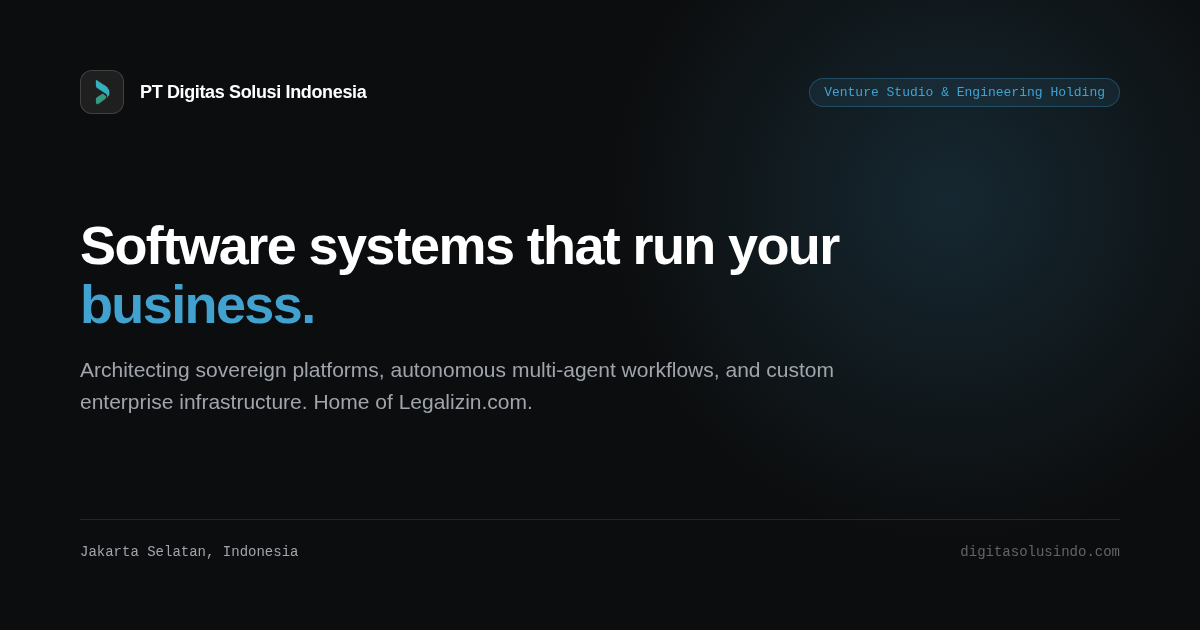
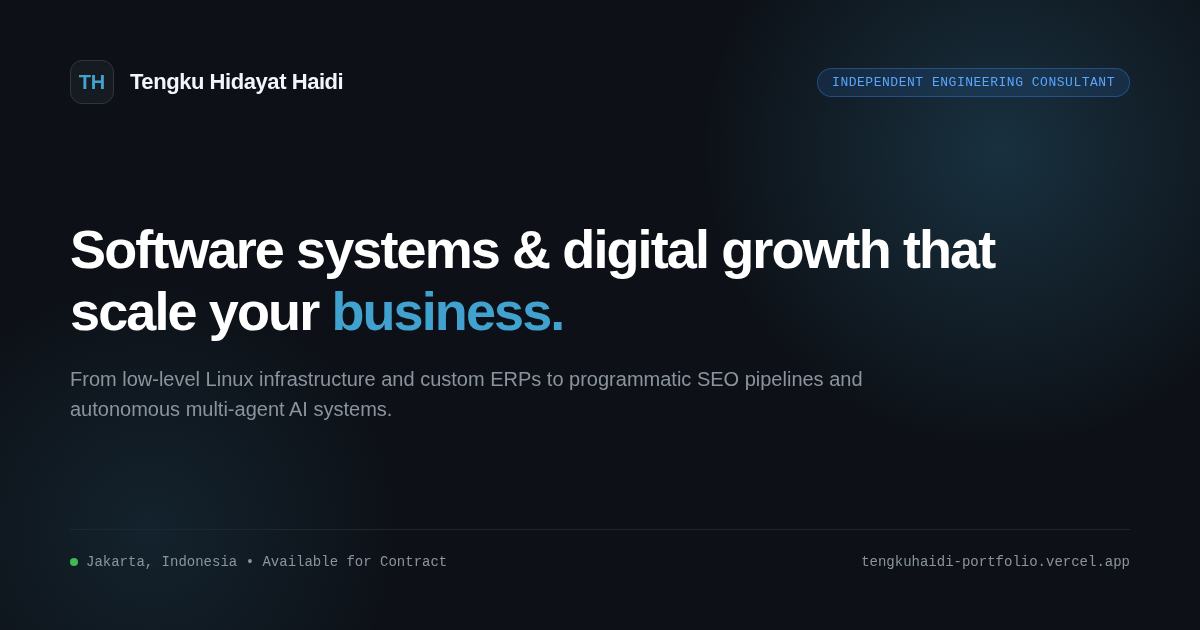
feat: update contact to WA 087825174624, email tengkuhaidi@gmail.com, Jakarta location; remove direct legalizin links from nav/footer; generate clean OG image

diff --git a/src/components/Navbar.tsx b/src/components/Navbar.tsx
@@ -5,7 +5,7 @@ import Link from 'next/link';
 import Image from 'next/image';
 import ThemeToggle from './ThemeToggle';
 
-const WA_URL = "https://wa.me/6281235247820?text=Halo%20Tengku%2C%20saya%20ingin%20berdiskusi%20mengenai%20kebutuhan%20teknologi%2C%20sistem%20software%2C%20dan%20growth%20digital%20untuk%20perusahaan.";
+const WA_URL = "https://wa.me/6287825174624?text=Halo%20Tengku%2C%20saya%20ingin%20berdiskusi%20mengenai%20kebutuhan%20teknologi%2C%20sistem%20software%2C%20dan%20growth%20digital%20untuk%20perusahaan.";
 
 export default function Navbar() {
   const [isOpen, setIsOpen] = useState(false);
@@ -56,18 +56,6 @@ export default function Navbar() {
                 {link.label}
               </Link>
             ))}
-            <a
-              href="https://legalizin.com"
-              target="_blank"
-              rel="noopener noreferrer"
-              className="flex items-center gap-1 text-[#41a1cf] hover:opacity-80 transition-opacity font-medium"
-            >
-              <span>Legalizin</span>
-              <svg width="10" height="10" viewBox="0 0 24 24" fill="none" stroke="currentColor" strokeWidth="2.2" strokeLinecap="round" strokeLinejoin="round">
-                <path d="M7 17L17 7" />
-                <path d="M7 7h10v10" />
-              </svg>
-            </a>
           </div>
 
           {/* Desktop Actions */}
@@ -185,7 +173,7 @@ export default function Navbar() {
 
         {/* Center: Stacked Large Serif Menu Links with Stagger Animation */}
         <div className="flex flex-col items-center justify-center space-y-4 my-auto">
-          {navLinks.map((item, idx) => (
+          {navLinks.slice(1).map((item, idx) => (
             <Link
               key={item.label}
               href={item.href}
@@ -202,26 +190,6 @@ export default function Navbar() {
               {item.label}
             </Link>
           ))}
-          <a
-            href="https://legalizin.com"
-            target="_blank"
-            rel="noopener noreferrer"
-            onClick={() => setIsOpen(false)}
-            style={{
-              transitionDelay: isOpen ? `${navLinks.length * 60 + 100}ms` : '0ms'
-            }}
-            className={`text-4xl sm:text-5xl font-editorial font-medium tracking-tight text-[#41a1cf] hover:opacity-80 transition-all duration-300 transform flex items-center gap-2 ${
-              isOpen
-                ? 'opacity-100 translate-y-0 blur-0'
-                : 'opacity-0 translate-y-6 blur-sm'
-            }`}
-          >
-            <span>Legalizin</span>
-            <svg width="24" height="24" viewBox="0 0 24 24" fill="none" stroke="currentColor" strokeWidth="2.2" strokeLinecap="round" strokeLinejoin="round">
-              <path d="M7 17L17 7" />
-              <path d="M7 7h10v10" />
-            </svg>
-          </a>
         </div>
 
         {/* Bottom Bar: Social Icons & Copyright */}
@@ -237,6 +205,18 @@ export default function Navbar() {
             >
               <svg xmlns="http://www.w3.org/2000/svg" width="18" height="18" viewBox="0 0 24 24" fill="none" stroke="currentColor" strokeWidth="2" strokeLinecap="round" strokeLinejoin="round">
                 <path d="M21 11.5a8.38 8.38 0 0 1-.9 3.8 8.5 8.5 0 0 1-7.6 4.7 8.38 8.38 0 0 1-3.8-.9L3 21l1.9-5.7a8.38 8.38 0 0 1-.9-3.8 8.5 8.5 0 0 1 4.7-7.6 8.38 8.38 0 0 1 3.8-.9h.5a8.48 8.48 0 0 1 8 8v.5z" />
+              </svg>
+            </a>
+
+            {/* Email Icon */}
+            <a
+              href="mailto:tengkuhaidi@gmail.com"
+              aria-label="Email Tengku Hidayat Haidi"
+              className="w-10 h-10 rounded-lg border border-[#dee2de] dark:border-[#24272b] flex items-center justify-center text-[#2c2c2c] dark:text-white hover:border-[#41a1cf] transition-colors"
+            >
+              <svg xmlns="http://www.w3.org/2000/svg" width="18" height="18" viewBox="0 0 24 24" fill="none" stroke="currentColor" strokeWidth="2" strokeLinecap="round" strokeLinejoin="round">
+                <rect width="20" height="16" x="2" y="4" rx="2" />
+                <path d="m22 7-8.97 5.7a1.94 1.94 0 0 1-2.06 0L2 7" />
               </svg>
             </a>
 

diff --git a/src/components/Footer.tsx b/src/components/Footer.tsx
@@ -4,7 +4,7 @@ import React from 'react';
 import Image from 'next/image';
 import Link from 'next/link';
 
-const WA_URL = "https://wa.me/6281235247820?text=Halo%20Tengku%2C%20saya%20ingin%20berdiskusi%20mengenai%20kebutuhan%20teknologi%2C%20sistem%20software%2C%20dan%20growth%20digital%20untuk%20perusahaan.";
+const WA_URL = "https://wa.me/6287825174624?text=Halo%20Tengku%2C%20saya%20ingin%20berdiskusi%20mengenai%20kebutuhan%20teknologi%2C%20sistem%20software%2C%20dan%20growth%20digital%20untuk%20perusahaan.";
 
 export default function Footer() {
   return (
@@ -60,6 +60,16 @@ export default function Footer() {
                 </svg>
               </a>
               <a
+                href="mailto:tengkuhaidi@gmail.com"
+                className="px-6 py-3 sm:py-2.5 rounded-[10px] border border-[#dee2de] dark:border-[#24272b] text-[#282834] dark:text-white text-[14px] font-sans font-medium hover:bg-neutral-50 dark:hover:bg-neutral-800 active:scale-95 transition-all text-center flex items-center justify-center gap-2"
+              >
+                <svg width="14" height="14" viewBox="0 0 24 24" fill="none" stroke="currentColor" strokeWidth="2" strokeLinecap="round" strokeLinejoin="round" className="opacity-70">
+                  <rect width="20" height="16" x="2" y="4" rx="2" />
+                  <path d="m22 7-8.97 5.7a1.94 1.94 0 0 1-2.06 0L2 7" />
+                </svg>
+                <span>tengkuhaidi@gmail.com</span>
+              </a>
+              <a
                 href="https://github.com/tengkuhaidi"
                 target="_blank"
                 rel="noopener noreferrer"
@@ -69,7 +79,7 @@ export default function Footer() {
                   <path d="M15 22v-4a4.8 4.8 0 0 0-1-3.5c3 0 6-2 6-5.5.08-1.25-.27-2.48-1-3.5.28-1.15.28-2.35 0-3.5 0 0-1 0-3 1.5-2.64-.5-5.36-.5-8 0C6 2 5 2 5 2c-.3 1.15-.3 2.35 0 3.5A5.403 5.403 0 0 0 4 9c0 3.5 3 5.5 6 5.5-.39.49-.68 1.05-.85 1.65-.17.6-.22 1.23-.15 1.85v4" />
                   <path d="M9 18c-4.51 2-5-2-7-2" />
                 </svg>
-                <span>GitHub @tengkuhaidi</span>
+                <span>GitHub</span>
               </a>
             </div>
 
@@ -94,18 +104,6 @@ export default function Footer() {
               <Link href="#about" className="hover:text-black dark:hover:text-white transition-colors">
                 About
               </Link>
-              <a
-                href="https://legalizin.com"
-                target="_blank"
-                rel="noopener noreferrer"
-                className="text-[#41a1cf] hover:underline inline-flex items-center gap-1 font-medium"
-              >
-                <span>Legalizin.com</span>
-                <svg width="11" height="11" viewBox="0 0 24 24" fill="none" stroke="currentColor" strokeWidth="2" strokeLinecap="round" strokeLinejoin="round">
-                  <path d="M7 17L17 7" />
-                  <path d="M7 7h10v10" />
-                </svg>
-              </a>
             </div>
 
             <div className="flex items-center gap-2 text-center">
@@ -140,7 +138,7 @@ export default function Footer() {
         {/* Bottom Floating Bar */}
         <div className="absolute bottom-0 left-0 right-0 z-20 max-w-[1240px] mx-auto px-4 sm:px-6 pb-4 sm:pb-6 flex flex-col sm:flex-row items-center justify-between text-white/90 text-[11px] sm:text-[13px] font-mono gap-1 text-center sm:text-left">
           <div>
-            © {new Date().getFullYear()} Tengku Hidayat Haidi
+            © {new Date().getFullYear()} Tengku Hidayat Haidi — Jakarta, Indonesia
           </div>
           <div className="text-white/60 text-[11px] sm:text-[12px]">
             Systems Architecture &amp; Growth Consulting

diff --git a/src/app/layout.tsx b/src/app/layout.tsx
@@ -91,8 +91,15 @@ const jsonLd = {
       name: "Tengku Hidayat Haidi",
       url: "https://tengkuhaidi-portfolio.vercel.app",
       jobTitle: "Independent Systems Engineer & Growth Consultant",
+      email: "tengkuhaidi@gmail.com",
+      telephone: "+6287825174624",
+      address: {
+        "@type": "PostalAddress",
+        addressLocality: "Jakarta",
+        addressCountry: "Indonesia"
+      },
       description:
-        "Full-stack software consultant and systems engineer helping companies build sovereign platforms, automate administrative drag, and execute technical SEO / SEM.",
+        "Full-stack software consultant and systems engineer based in Jakarta, Indonesia. Helping companies go digital, build custom software ecosystems, and execute technical SEO / SEM.",
       sameAs: [
         "https://github.com/tengkuhaidi",
         "https://www.linkedin.com/in/tengkuhaidi/"
@@ -110,7 +117,7 @@ const jsonLd = {
       "@id": "https://tengkuhaidi-portfolio.vercel.app/#website",
       url: "https://tengkuhaidi-portfolio.vercel.app",
       name: "Tengku Hidayat Haidi — Portfolio",
-      description: "Official portfolio and engineering showcase of Tengku Hidayat Haidi",
+      description: "Official portfolio and engineering showcase of Tengku Hidayat Haidi — Jakarta, Indonesia",
       inLanguage: "en-US",
     },
   ],
